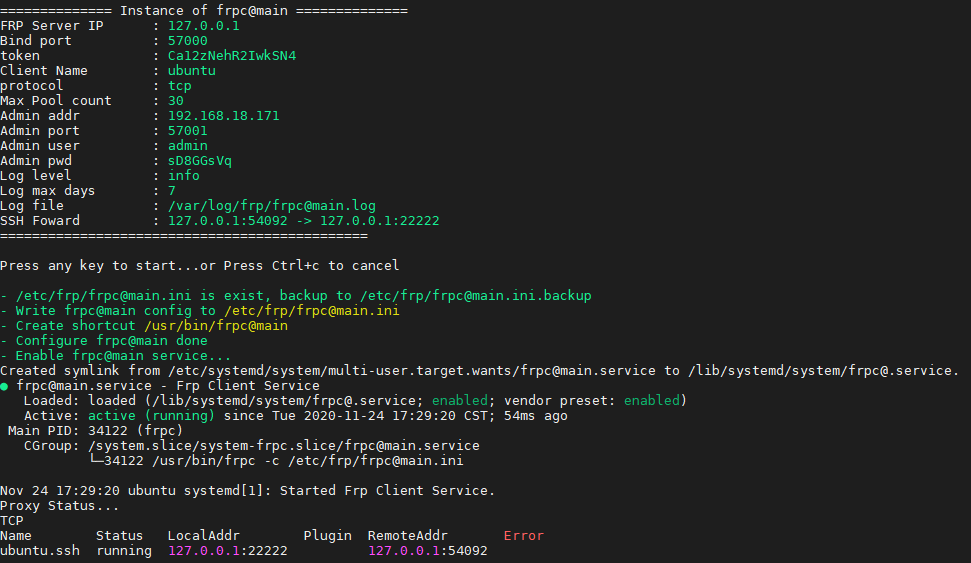
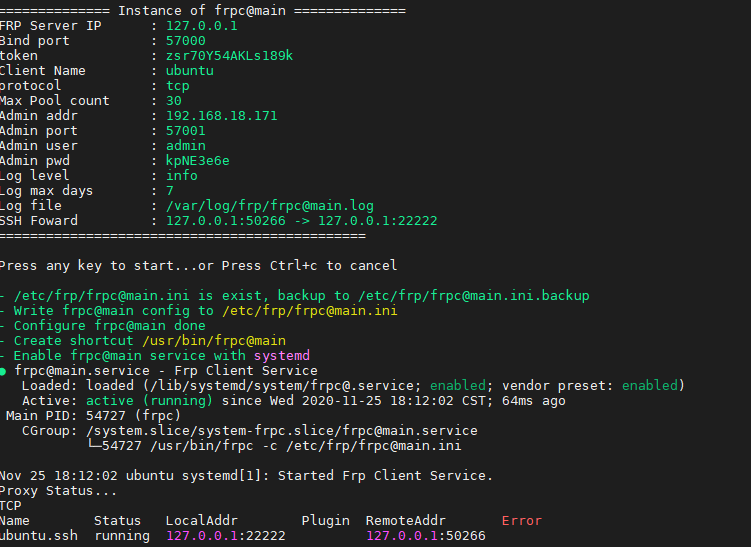
support init.d

diff --git a/README.md b/README.md
@@ -5,7 +5,7 @@ About
 Frp一键配置脚本，修改自 [clangcn](https://github.com/clangcn/onekey-install-shell) ，frp版本 0.34.2
 
 - frp服务端、客户端一键安装，配置、删除
-- 使用frp包自带的service管理启动服务
+- 支持systemd或rc管理服务
 - 支持多实例服务，默认实例名为**main**
 - 在ubuntu/debian上测试
 
@@ -15,12 +15,12 @@ Frp一键配置脚本，修改自 [clangcn](https://github.com/clangcn/onekey-in
 
 ```Bash
 wget https://github.com/sseaky/frp-onekey/raw/main/frp_onekey.sh
-sudo bash frp_manage.sh -a install -c {frps|frpc}
+sudo bash frp_onekey.sh -a install -c {frps|frpc}
 ```
 or
 
 ```bash
-sudo bash frp_manage.sh -a install -c {frps|frpc} -i <instance>
+sudo bash frp_onekey.sh -a install -c {frps|frpc} -i <instance>
 ```
 
 如果wget碰到 
@@ -39,7 +39,7 @@ Connecting to raw.githubusercontent.com (raw.githubusercontent.com)|151.101.228.
 ### Reconfig
 
 ```bash
-sudo bash frp_manage.sh config {frps|frpc}@<instance>
+sudo bash frp_onekey.sh config {frps|frpc}@<instance>
 ```
 
 or
@@ -49,13 +49,13 @@ Modify the config file in /etc/frp/ and restart service manually.
 ### Uninstall
 
 ```Bash
-sudo bash frp_manage.sh -a uninstall
+sudo bash frp_onekey.sh -a uninstall
 ```
 
 ### Shortcut
 
 ```bash
-sudo frps@<instance> {start|stop|restart}
+sudo frps@<instance> {start|stop|restart|status}
 sudo frpc@<instance> {start|stop|restart|status|reload}
 ```
 
